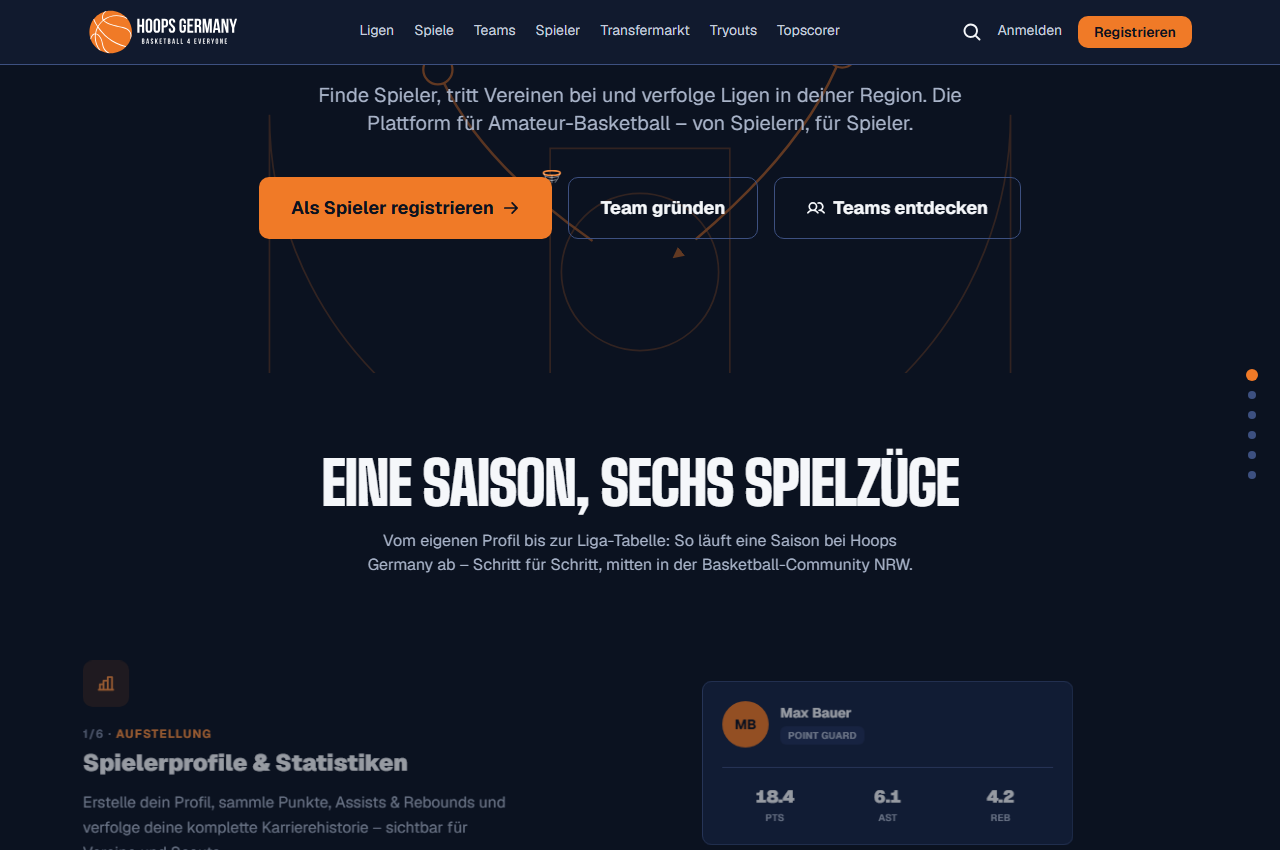
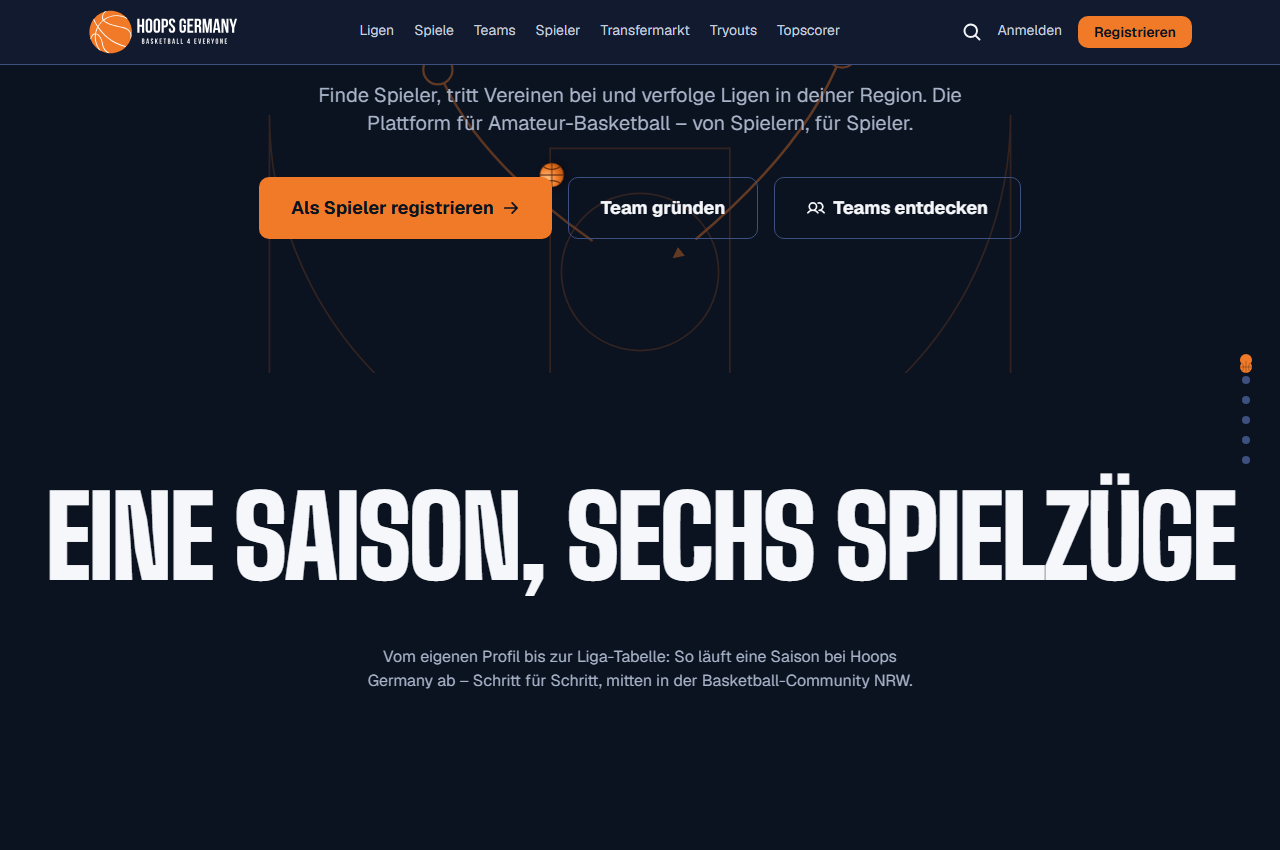
docs: Wow-Ebene deployt, Live-Stand 78d833a
Live-Abnahme direkt gegen hoopsgermany.de nach dem Deploy:
- Navigation 10/10, keine Konsolenfehler, mobil und Desktop
- Bildsequenz erreicht Bild 44/44 am Seitenende (der Fehler, den Tobias
  gefunden hatte, ist auch live behoben)
- Ball folgt beim Zurueckscrollen wieder dem Balken (70px/70px)
- Navbar-Knoepfe reagieren auf echte Klicks (Tobias' offener Verdacht
  ausgeraeumt - es war seine Werkzeuggrenze)
- Sequenz laedt weiterhin 0 Bilder beim Seitenaufruf, 45 erst beim Scrollen
- Grund rgb(11,18,32), Headline in Big Shoulders, Taktiktafel mit 5 Linien

Rollback bleibt 562c629 (Stand vor dem gesamten Redesign).

diff --git a/docs/ZIELGRUPPEN.md b/docs/ZIELGRUPPEN.md
@@ -1,0 +1,179 @@
+# Zielgruppen — Hoops Germany
+
+> **Kanonische Zielgruppen-Definition · gepflegt von Nele (marketing-manager) ·
+> Stand 12.08.2026 · Änderungen nur mit Patrick.**
+>
+> Zweck: Die Zielgruppen waren bisher über `MARKE.md` §8, `Tester-Akquise\EMPFEHLUNG.md` §1,
+> Neles Agenten-Definition und `docs/BEDARFSANALYSE-2026-08-09.md` verstreut — dieses Dokument
+> fasst sie session-übergreifend verbindlich zusammen. Pflicht-Startpunkt für Kampagnen,
+> Werbematerial, Copy-Entscheidungen und Zielgruppen-Perspektiv-Checks.
+>
+> Schwesterdokumente: **`docs/BEDARFSANALYSE-2026-08-09.md`** (Mats — was die Community
+> *braucht*, Bedarfe 1–5 + Hypothesen H1–H7), **`MARKE.md`** (Tonalität, Verbotsliste,
+> nennbare Substanz), **`docs/RONJA-LANDING-2026-08-12.md`** (Personas „Sven"/„Max" am
+> Live-Produkt geprüft).
+
+---
+
+## 0. Beleglage — was wir wirklich wissen
+
+Kennzeichnung in diesem Dokument, durchgängig:
+
+- **[BELEGT]** — externe Quelle mit Datum oder eigene nachprüfbare Daten
+- **[INDIZ]** — echter, aber schwacher Hinweis
+- **[HYPOTHESE]** — plausibel, unvalidiert. Nicht als Tatsache verwenden, nicht auf Papier drucken.
+
+**Die eigene Datenbasis ist dünn — das gehört bei jeder Ableitung mitgesagt:**
+
+- **9 externe Nutzer, 1 externes Team** (Stand 12.08.2026). Damit ist statistisch nichts
+  belastbar: keine A/B-Tests, keine Quoten, keine Segment-Vergleiche. Woher diese Nutzer
+  kamen, ist **nicht** nachvollziehbar (kein Quell-Parameter zum Registrierungszeitpunkt).
+- Schriftliches Tester-Feedback insgesamt: **1 substanzielle Rückmeldung** (25.06.2026:
+  „neue User sind lost") + **5 WhatsApp-Punkte von Jonatan** (28.06.2026) — `docs/CHRONIK.md`.
+- **Kein Akquise-Kanal ist bisher empirisch validiert.** Flyer und Karten sind druckbereit,
+  aber noch nicht verteilt (Druck-Ziel 17.08., Verteilung bis ~05.09.2026). `?src=`-Tracking
+  ist produktiv, hat aber noch keine Daten.
+- Inhaltlicher Reality-Check zur Attraktivität: **57 offizielle NRW-Ligen im Katalog, davon
+  3 mit echten Teams** [BELEGT, `GET /api/leagues?scope=all`, 12.08.2026].
+- Keine eigene Umfrage, keine Interviews. Alle externen Belege unten stammen aus Mats'
+  Bedarfsanalyse (App-Store-Reviews, Verbands-Seiten, Foren, Vergleichsplattformen; dort
+  jeweils mit Quelle und Abrufdatum 09.08.2026).
+
+---
+
+## Z1 — Aktive Liga-Spieler NRW (Kernzielgruppe)
+
+- **Wer:** Aktive Amateur-Spieler in NRW, **Kreisliga bis Regionalliga**, Schwerpunkt ca.
+  18–30 Jahre. Referenz-Situation allen Materials: der **24-jährige Bezirksliga-Spieler
+  direkt nach seinem Spiel**, 3 Sekunden Aufmerksamkeit (`EMPFEHLUNG.md` §1).
+- **Wo erreichbar:** **In der Halle, persönlich übergeben** (Johnny bei Turnieren) — der
+  geplante Hauptkanal, auf den Flyer und Karte optimiert sind; WhatsApp-Team-Chats;
+  Facebook-Seiten/-Gruppen („Basketball in NRW") [BELEGT]. **Belegte Nicht-Kanäle:** Reddit
+  (kein aktives deutsches Amateur-Basketball-Subreddit auffindbar) und Schönen-Dunk-Forum
+  (aktivste deutsche Community, aber BBL/ProA-lastig — Kreisliga-Alltag ist dort Randthema).
+- **Was motiviert:** Eigene Stats und eigenes Profil, **kostenlos und ohne Frust** — der
+  Status quo ist kostenpflichtig *und* schlecht bewertet: DBB.Scores-Paywall 3,99 €/Woche
+  bis 34,99 €/Jahr, 3,1★ bei 880 Bewertungen, der WBV verschenkt Gold-Abos an
+  Mannschaftsverantwortliche [BELEGT]. Dazu: „meine echte Liga ist drin", und die
+  **Belegbarkeit** der Zahlen fürs Scouting („wie LinkedIn, nur nachweisbar" — beide Teams
+  bestätigen den Spielstand unabhängig). Status „Tester der ersten Stunde" [HYPOTHESE].
+- **Was schreckt ab:** Eine Plattform, auf der nichts los ist (siehe 57 vs. 3 oben);
+  „Testphase" kann als „da ist noch nichts" gelesen werden [HYPOTHESE, `EMPFEHLUNG.md` §1];
+  **Behauptung statt Beweis** („deine Kreisliga ist drin" — ohne Beweis am Handy wertlos);
+  noch ein Account, noch eine App; Startup-Sprech und Superlative (`MARKE.md` §5).
+- **Welche Ansprache passt:** Du, Hallen-Sprache — man redet mit einem Spieler nach dem
+  Spiel. Konkret über seine Liga/seinen Kreis statt über „die Plattform".
+  **Pionier-Framing** („trag dein Team als Erster ein") statt Bestandsbehauptung. Beweis
+  zeigen, nicht versprechen: die Liga live auf dem Handy aufrufen.
+
+## Z2 — Team-Admins, Trainer, Ehrenamt
+
+- **Wer:** Der eine im Team, der alles organisiert — Trainer, Spielführer, Abteilungshelfer.
+  Auf Hoops sind das die spieler-geführten Team-Admins und Co-Admins. Ronjas Persona „Max".
+- **Wo erreichbar:** **Über Z1** (die eigenen Spieler bringen ihn mit), WhatsApp,
+  Vereinsseiten. Nicht über Verbandskanäle — dort haben wir keinen Zugang.
+- **Was motiviert:** Sichtbarkeit für sein Team. Die belegte Lektion von FuPa (Amateurfußball):
+  **Eitelkeit und Sichtbarkeit sind der Motor der Datenpflege** — Vereine pflegen freiwillig,
+  wenn sie dafür gesehen werden [BELEGT]. Dazu: Kader und Einladungen ohne Zettelwirtschaft,
+  und ein Ergebnis, das hinterher niemand bestreitet.
+- **Was schreckt ab:** **Doppelerfassung.** Ergebnisse müssen bereits verpflichtend in
+  TeamSL/Digital Score Sheet erfasst werden — jede Hoops-Eingabe ist heute eine zweite
+  [BELEGT]. Zusammen mit dem strukturellen Ehrenamts-Mangel der Szene [BELEGT] ist das ein
+  **Ausschlusskriterium, kein Feature-Wunsch**: Jede Funktion, die ihm zusätzliche
+  Pflegearbeit auferlegt, kämpft gegen diese Realität.
+- **Welche Ansprache passt:** Aufwand zuerst und ehrlich benennen („dauert zwei Minuten"),
+  nie „mächtiges Verwaltungstool". WhatsApp-first bei allen Einlade-/Teilen-Wegen. Nutzen
+  fürs Team formulieren, nicht für die Plattform.
+
+## Z3 — Vereinslose, Wiedereinsteiger, Hobby-Spieler
+
+> ⚠ **Neu aufgenommen gegenüber Neles Agenten-Definition** (die nennt Z1, Z2, Z4, Z5).
+> Grund: Mats' Gruppe 1c ist belegt und wird von gebauten Funktionen (Transfermarkt,
+> Tryouts, Umkreissuche) direkt adressiert. **Bestätigung durch Patrick steht aus.**
+
+- **Wer:** Spieler ohne Verein, Wiedereinsteiger nach Pause, Hobby-Spieler. Ronjas Persona
+  „Sven" (Dev-Test-Account `sven.adler@test.de`).
+- **Wo erreichbar:** Facebook-Gruppe „Verein sucht Spieler/in // Spieler/in sucht Verein",
+  Spontacts (Kategorie Basketball), HobbyLiga.de, Hobby-/Freizeitgruppen der Vereine
+  [BELEGT] — die Suche ist heute fragmentiert und ortsabhängig.
+- **Was motiviert:** Anschluss finden. Konkret: ein Tryout in der Nähe, ein Team, das
+  jemanden sucht.
+- **Was schreckt ab:** Leeres Inventar. Der Engpass ist **Liquidität auf beiden Seiten**,
+  nicht Funktionsumfang (Mats' Bedarf 3, Hypothese H4). Wer zweimal nichts findet, kommt
+  nicht wieder.
+- **Welche Ansprache passt:** Ein konkretes Angebot in seiner Nähe, keine Feature-Liste.
+  Solange das Inventar klein ist, ehrlich als „im Aufbau" rahmen statt als Marktplatz.
+
+## Z4 — Vereinsverantwortliche (Vorstand, Abteilungsleitung)
+
+- **Wer:** Formal Verantwortliche im Verein — Empfänger der Scouting-Belege und
+  Gegenstelle im Liga-Zuordnungs-Freigabeprozess.
+- **Beleglage: komplett [HYPOTHESE].** Kein eigener Kontakt, kein externer Beleg, keine
+  Bedarfs-Aussage. Mats führt sie nur als Teil des Ehrenamts (1b), nicht als eigene Gruppe.
+- **Empfehlung:** **Nicht aktiv bewerben, bis Z1/Z2 Substanz haben.** Ein Vorstand, dem eine
+  Plattform mit 3 bespielten Ligen präsentiert wird, ist ein verbrannter Erstkontakt. Sie
+  entstehen ohnehin über Z2, wenn dessen Team sichtbar wird.
+- **Wenn doch angesprochen wird:** über Belegbarkeit (bestätigte Ergebnisse, nachprüfbare
+  Kaderdaten), nicht über Reichweite — Reichweite haben wir nicht.
+
+## Z5 — Lokale Sponsoren / Founding Partner
+
+- **Wer:** Aktuell **ein** konkreter Kandidat: der Vater eines Spielers, persönliches
+  Gespräch, ausdrücklich kein Sales-Pitch [BELEGT — Sponsoren-Deck, Stand 07.08.2026].
+  Das ist eine Gesprächs-Zielgruppe, **kein Kanal**.
+- **Wo erreichbar:** ausschließlich persönlich, über Jonatans und Patricks eigenes Umfeld.
+- **Was motiviert:** lokale Sichtbarkeit, Nähe zum Verein bzw. zum eigenen Kind,
+  Founding-Partner-Status als Erster [HYPOTHESE — ein Gespräch ist keine Validierung].
+- **Was schreckt ab:** erfundene oder aufgeblasene Reichweite (fällt in einem persönlichen
+  Gespräch sofort auf); unklare Laufzeit und Leistung.
+- **Welche Ansprache passt:** persönlich, nur echte Zahlen, Testphase offen benennen.
+  Kreisliga-Daten immer als Beispieldaten kennzeichnen.
+- ⚠ **Sperren:** Monetarisierung ist **blockiert bis zur Gewerbeanmeldung** (CLAUDE.md
+  Roadmap #3). Werbeaussagen mit Vergleich („die einzige Plattform, die…") gehen wegen
+  **§6 UWG** vor der Verwendung an Nora (recht-vorpruefung), nicht in Marketing-Copy.
+
+---
+
+## Priorisierung
+
+**Z1 → Z2 → Z3.** Z1 ist der Motor (Spieler bringen Team-Admins mit, nicht umgekehrt);
+Z2 entscheidet, ob Daten gepflegt werden; Z3 profitiert erst bei Liquidität.
+**Z4 später** (nicht bewerben, s. o.). **Z5 läuft parallel, aber separat** — ein Gespräch,
+kein Kanal, andere Sperren.
+
+## Was ausdrücklich NICHT Zielgruppe ist
+
+| Naheliegend | Warum nicht |
+|---|---|
+| BBL-/Profi-Fans (Schönen-Dunk-Publikum) | Größte deutsche Basketball-Community, aber falsches Publikum — wir bieten nichts für Profi-Interessierte [BELEGT]. |
+| Spieler außerhalb NRW | Kein Nachfrage-Beleg; FuPas Lektion ist **regionale Dichte vor Fläche**. Deutschlandweit bleibt Ziel, ist aber keine heutige Zielgruppe — und auf Papier **keine Zusage** (`EMPFEHLUNG.md` §7.3). |
+| Eltern / Jugendbereich als eigene Gruppe | Keine Belege, und die weibliche Jugend-Einteilung ist selbst noch unverifiziert (CLAUDE.md Roadmap #6). |
+| Teams, die eine Trainingsverwaltung suchen | Von SpielerPlus/Spond kostenlos abgedeckt [BELEGT] — falsches Versprechen, das wir nicht halten wollen (Bedarfsanalyse §3). |
+
+## Offene Validierungsfragen
+
+Jede hängt an einer Hypothese aus Mats' Analyse — hier steht nur, was **zielgruppenseitig**
+dadurch entschieden wird:
+
+1. **Trägt das Early-Adopter-Framing die „Testphase"-Skepsis?** (Z1) — zu prüfen in den
+   ersten echten Tester-Gesprächen, nicht messbar. `EMPFEHLUNG.md` §1, Schwäche 2.
+2. **Ist „meine Stats" wirklich der Haupt-Hook?** (Z1) — H2: Profile/Rangliste müssten die
+   meistbesuchten Bereiche eingeloggter Nutzer sein. Wenn nein, wackelt Z1s Kernmotiv.
+3. **Kippt die Doppelerfassung Z2?** — H3: Anteil der Spiele mit Ergebnis binnen 7 Tagen
+   über die Saison.
+4. **Woher kommen Registrierungen?** — H5: Tages-Spikes nach Johnnys Turnieren, jetzt über
+   `?src=`-Logging auswertbar. Erst nach der ersten Verteilung beantwortbar.
+5. **Hat Z3 überhaupt Inventar?** — H4: Bewerbungen/Direktanfragen pro Monat.
+6. **Existiert Z4 als eigene Gruppe?** — offen, bislang reine Annahme.
+
+---
+
+## Änderungsprotokoll
+
+- **12.08.2026 — angelegt (Nele).** Erste Fassung, konsolidiert aus `MARKE.md` §5/§8,
+  `Tester-Akquise\EMPFEHLUNG.md` §1/§7, Neles Agenten-Definition, `CLAUDE.md` (Feature-Stand,
+  Kernpositionierung, Roadmap-Sperren) und `docs/BEDARFSANALYSE-2026-08-09.md` (Mats).
+  Inhaltliche Neuerungen gegenüber dem verstreuten Stand: Z3 als eigene Gruppe aufgenommen
+  (Bestätigung Patrick offen), Z4 auf „nicht bewerben" gesetzt, Beleglage-Kennzeichnung
+  eingeführt. **Keine neuen Aufträge an Kollegen** — dies ist eine Dokumentations-Konsolidierung;
+  Mats' Bedarfsanalyse und Ronjas Persona-Test sind referenziert, nicht ersetzt.

diff --git a/docs/CHRONIK.md b/docs/CHRONIK.md
@@ -1942,3 +1942,42 @@ einmal und schließt sauber, bei reduzierter Bewegung gar nicht, keine Konsolenf
 Verwendungen – 126 Stellen bauen die Panel-Fläche von Hand. Eine Änderung an der Kartensprache
 wirkt also nicht zentral. Größter offener Konsistenz-Posten des Designsystems, Umbau bewusst
 zurückgestellt.
+
+### Nachtrag 12.08.2026 – Ballreise, überbreite Überschrift und Bildsequenz deployt (`78d833a`)
+
+**Gebaut:** A10 (der Ball reist durch die ganze Seite statt im Hero zu landen), A1 (Überschrift läuft
+über beide Bildränder), A5 (Kapitelmarke, aus der Backoffice-Session), plus die scroll-gebundene
+Bildsequenz „Sprungball" (45 Bilder, 191 KB, 0 Anfragen beim Seitenaufruf).
+Grundlage: Patricks Freigabe `dec-hoops-ball-landung` (Option 1) – die Ball-Landung an der
+Hero-Schaltfläche durfte entfallen. Damit war der Engpass gelöst, an dem A2, A9 und A10 hingen.
+
+**Die zwei Fehler, die die Gates gefunden haben – beide mit Lehrwert:**
+
+1. **Die Bildsequenz erreichte ihr Ziel nie** (Befund Tobias, hoch). Die Fortschrittsformel setzte
+   voraus, dass der Abschnitt oben aus dem Bild gescrollt werden *kann*. Er sitzt aber am Seitenende –
+   beim untersten möglichen Scrollstand kam sie auf **Bild 24 von 45**. Der beworbene Moment war für
+   niemanden erreichbar. Lehre: Bei scroll-gebundenen Effekten am Seitenende muss das Ende auf den
+   **tatsächlich erreichbaren** Scrollstand gedeckelt werden, nicht auf den geometrischen.
+2. **„Von beiden Teams bestätigt" hätte gelogen** (Befund Kai, kritisch). Die Aussage hing allein an
+   `resultStatus === "confirmed"` – das setzt aber auch der Admin-Pfad `/admin/update-match`, wo nur
+   eine Partei tippt. Belastbar ist erst beidseitiges `submittedBy`. Lehre: Ein Statusfeld ist kein
+   Beleg, solange nicht geprüft ist, **wer** es setzen kann.
+
+**Weitere Gate-Befunde, alle behoben:** Ball klebte nach der Ankunft rechts, während der Balken
+zurückging (Tobias, mittel); Ball rastete nach einer Größenänderung nicht neu ein (Kai); fehlender
+Fehlerzweig in `SwishSequence` (ein fehlender Bilder-Ordner wäre lautlos gescheitert); Generator-Skript
+brach auf fremden Rechnern ohne Hinweis ab.
+
+**Werkzeug-Korrektur, die Kai angestoßen hat:** Mein Kontrast-Durchlauf nahm zwischenzeitlich *jeden*
+`aria-hidden`-Teilbaum aus. Das ist zu weit – `aria-hidden` entfernt Inhalt nur aus dem
+Screenreader-Baum, sehende Nutzer lesen ihn weiter. Zwei Stellen waren dadurch blind geworden und
+bestanden nur zufällig. Die Ausnahme hängt jetzt an der Signatur der Konturschrift.
+
+**Live-Abnahme gegen hoopsgermany.de:** Navigation 10/10, Sequenz erreicht Bild 44/44 am Seitenende,
+Ball folgt beim Zurückscrollen dem Balken (70px/70px), Navbar-Knöpfe reagieren auf echte Klicks,
+0 Anfragen für die Sequenz beim Seitenaufruf, keine Konsolenfehler – mobil und Desktop.
+
+**Prozess-Lehre, dreimal in Folge bestätigt:** Tobias' Klick-Werkzeug fällt regelmäßig aus. Er meldet
+das inzwischen sauber als „ungeklärt" statt als Entwarnung – und genau diese Ehrlichkeit ist der Grund,
+warum seine Berichte etwas wert sind. Die offenen Punkte lassen sich mit Playwright nachziehen
+(`tmp/tobias-befunde-check.mjs`, `tmp/mobil-tastatur-check.mjs`).

diff --git a/CLAUDE.md b/CLAUDE.md
@@ -11,13 +11,12 @@
 > DB `test`) → Rollback = Nginx zurück auf 3000. Deploy: `cd /root/hoops-v2 && git pull && npm run build &&
 > pm2 restart hoops-v2` (bei neuen Dependencies vorher `npm install`). Claude-SSH-Key `~/.ssh/hoops_vps`
 > (lokal); VPS-Repo-Zugang via Deploy-Key (SSH-Alias `github-hoops`).
-> **Zuletzt deployt: `07a1a0e` (12.08.2026)** – zusätzlich Wow-Ebene **Stufe C** (Staffelung als
-> Regel, Mikro-Detail beim Karten-Hover, weicher Seitenwechsel über die native View-Transitions-API
-> an Team-/Spielerkarten). Davor: `1c42810` – **visuelles Redesign „Anzeigetafel" auf Navy**
-> (neue Farb-, Schrift- und Formsprache plattformweit, Icons auf Phosphor) plus Wow-Ebene Stufe A
-> (Taktiktafel im Hero, Splitflap-Wort, Fokus-Sprung auf der Feature-Strecke) und Stufe B
-> (Anzeigetafel-Punktestand mit „Von beiden Teams bestätigt", hochzählende Karrierewerte, eigene
-> Zeile in der Liga-Tabelle). Protokoll: `docs/CHRONIK.md`, Eintrag 12.08.2026.
+> **Zuletzt deployt: `78d833a` (12.08.2026)** – Wow-Ebene komplett: **Ballreise (A10)** – der Ball
+> setzt an der Hero-Schaltfläche auf und reitet danach die Fortschrittsleiste der Feature-Strecke
+> mit, bis er am Ende im Korb landet –, **überbreite Überschrift (A1)**, **Kapitelmarke (A5)** und
+> die scroll-gebundene **Bildsequenz „Sprungball“** (45 Bilder, 191 KB, lädt erst beim Scrollen).
+> Davor: `07a1a0e` (Stufen A–C), `1c42810` (Redesign „Anzeigetafel“ auf Navy).
+> Protokoll: `docs/CHRONIK.md`, Einträge 12.08.2026.
 > **Rollback-Punkt davor: `562c629`** (Stand VOR dem gesamten Redesign) (auf dem VPS auschecken, `npm run build`, `pm2 restart hoops-v2`).
 >
 > ⏸ **PAUSIERT am 12.08.2026** (Patrick programmiert parallel die Agenten im General Backoffice um).
@@ -101,6 +100,13 @@
 > (`~/.claude/agents/retention-analystin.md`) die Hypothesen H1–H7 der Analyse am Live-Produkt
 > (Nutzerbrille, ehrliche Retention-Hebel, keine Dark Patterns); ihre Befunde gehen an Mats zurück.
 > Beide sind Vorschlags-Instanzen — kein Gate, Priorisierung entscheiden Patrick & Jonatan.
+> **Zielgruppen-Seite dazu: `docs/ZIELGRUPPEN.md`** (Marketing-Managerin **Nele**,
+> `~/.claude/agents/marketing-manager.md`, angelegt 12.08.2026) — kanonische, session-übergreifende
+> Definition der fünf Zielgruppen (Liga-Spieler NRW · Team-Admins/Ehrenamt · Vereinslose ·
+> Vereinsverantwortliche · lokale Sponsoren) mit „wo erreichbar / was motiviert / was schreckt ab /
+> welche Ansprache", der „ist NICHT Zielgruppe"-Liste und durchgängiger Kennzeichnung
+> **[BELEGT] / [INDIZ] / [HYPOTHESE]**. Pflicht-Startpunkt für Kampagnen, Werbematerial und Copy;
+> **Änderungen an den Zielgruppen nur mit Patrick.**
 >
 > 📌 **KONVENTION (verbindlich): Vor jedem Deploy zwei Gates.** `npm run build` + Playwright
 > (`npx playwright test -c tests/e2e/playwright.config.mjs`) und die Production-Runtime (`npm start`,
